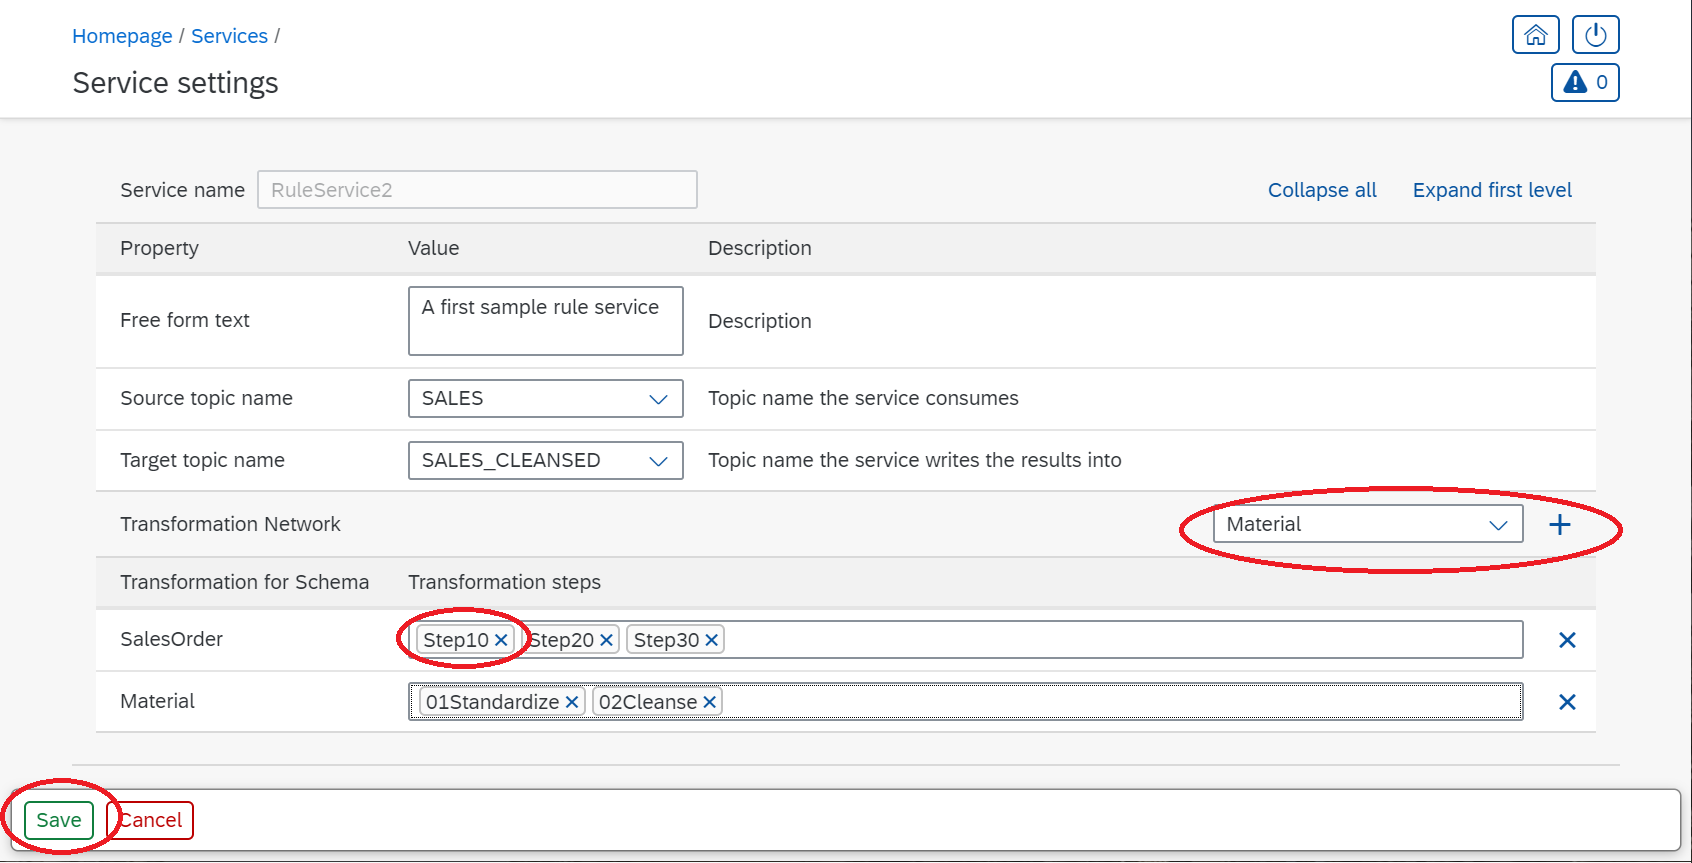
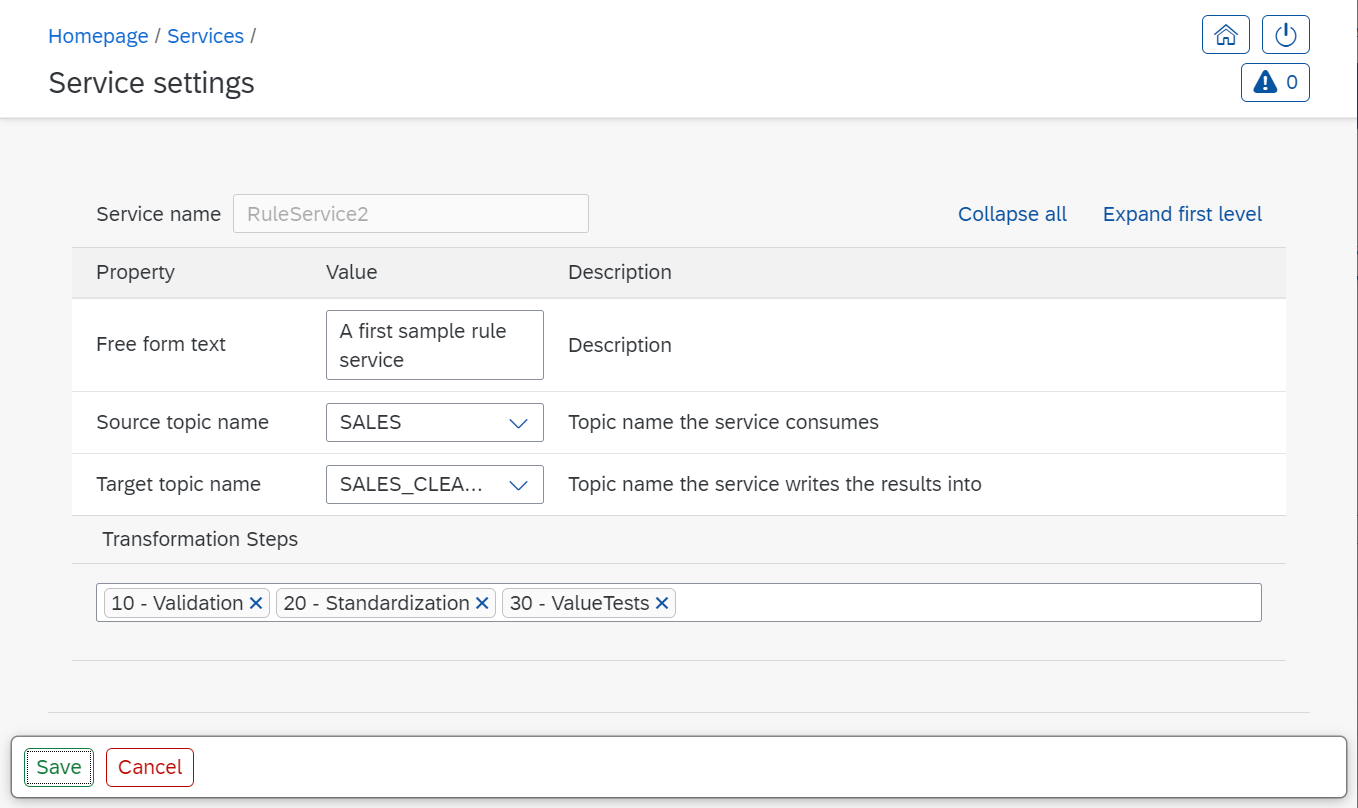
UI enhancements

diff --git a/src/main/java/io/rtdi/bigdata/rulesservice/SchemaRuleSet.java b/src/main/java/io/rtdi/bigdata/rulesservice/SchemaRuleSet.java
@@ -124,7 +124,10 @@ public class SchemaRuleSet extends RecordRule {
 				try {
 				    RecordRule pg = mapper.readValue(file, SchemaRuleSet.class);
 				    pg.postSerialization();
-			        addAll(pg.getRules());
+				    if (pg.getRules() != null) {
+				    	// A file without a rule should not throw an exception
+				    	addAll(pg.getRules());
+				    }
 				} catch (PropertiesException e) {
 					throw e; // to avoid nesting the exception
 				} catch (IOException e) {

diff --git a/README.md b/README.md
@@ -47,13 +47,19 @@ The first step is to connect the application to a Kafka server, in this example 
 
 Each Service is a Kakfa KStream, a distributed process listening on a topic and validating the data. Hence the first setting of each service are the input and output topic names to use.
 
-Within one rule service for each schema multiple steps can be performed, a microservice transformation so to speak. These transformation steps happen within the service. For example the first microservice step might standardize on the different spellings of the field STATUS. The result of this step is then put into another step, validating if the STATUS is valid and consistent with other data. In the screen schemas are added and then the step names - they are executed in named order.
+Within one rule service for each schema multiple steps can be performed, a microservice transformation so to speak. These transformation steps happen within the service. For example the first microservice step might check missing data, the next standardize on the different spellings. The result of this step is then put into a third step, validating if the STATUS is valid and consistent with other data.
 
 <img src="https://github.com/rtdi/RTDIRulesService/raw/master/docs/media/RulesService-RuleDefinition-Level1.png" width="50%">
 
-Once the structure is saved, by clicking on the individual steps the rules themselves are defined. The structure of the schema with all its nesting elements are shown and rules can be defined for each field.
+Once the structure is saved, by clicking on the individual steps the rules themselves are defined.
 
-An example would be a rule on the STATUS column, which must contain the values Ordered, Confirmed, InProduction or Completed. One way would be a a single rule on the column with a OR condition. The other option would be five rules testing for a single status value only and the group is "Test until first Passes". 
+Because a topic can contain data for multiple schemas, the rules are defined for each schema individually. If the message schema has no rules defined, it is passed through unchanged.
+
+<img src="https://github.com/rtdi/RTDIRulesService/raw/master/docs/media/RulesService-RuleDefinition-Level2.png" width="50%">
+
+After a schema has been selected, its structure with all nested elements is shown and rules can be defined for each field.
+
+An example would be a rule on the OrderStatus column, which must contain the values C (..Completed) or N (..New). One way would be a a single rule on the column with a OR condition. The other option would be five rules testing for a single status value only and the test type is "Test until first Passes". 
 
 <img src="https://github.com/rtdi/RTDIRulesService/raw/master/docs/media/RulesService-RuleDefinition-Level3.png" width="50%">
 
